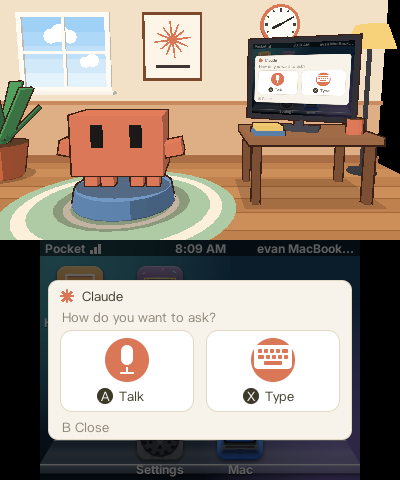
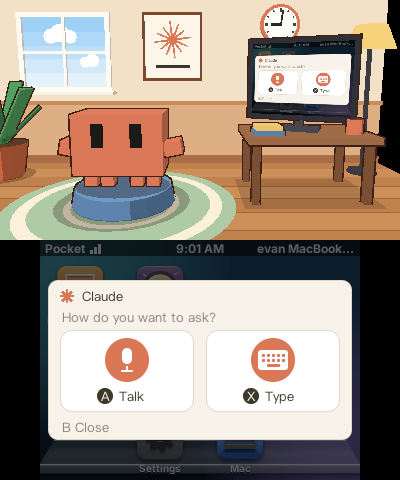
fix(3ds): a smaller gear for Settings and a smaller laptop with no dark bezel for Mac
Both objects take about three quarters of the tile, so the plate frames them.
The laptop's display sits in its aluminium lid. The PocketJS pin moves to
d1866d30: the PocketJS screensaver on the mascot's monitor and the Talk and
Type glyphs with a margin in their discs.

diff --git a/shells/3ds/home/art/icons/icons.py b/shells/3ds/home/art/icons/icons.py
@@ -307,27 +307,26 @@ def gear_outline(teeth, tip, root, steps=12, land=0.42):
 
 def settings():
     # One bold gear on brushed steel: eight wide teeth, a bright hub and a
-    # dark axle. At 46 and 24 px every part is a few pixels wide, so there
-    # are no windows in the web and no recess around it.
+    # dark axle, at about three quarters of the tile so the plate frames it.
+    # At 46 and 24 px every part is a few pixels wide.
     plate(brushed_radial("Brushed steel", "e2e5e9", "a4abb4"))
     gun = principled("Gunmetal", "565e69", 0.32, 0.85)
     steel = principled("Polished steel", "eef1f4", 0.14, 1.0)
-    prism("Gear", gear_outline(8, 0.84, 0.62, land=0.46), 0.0, 0.16, gun, 0.03, holes=[list(reversed(circle(0.30)))])
-    prism("Hub ring", circle(0.30), 0.0, 0.20, steel, 0.035, holes=[list(reversed(circle(0.14)))])
-    prism("Axle", circle(0.14), 0.0, 0.12, principled("Axle", "24282d", 0.3, 0.9), 0.02)
+    prism("Gear", gear_outline(8, 0.62, 0.46, land=0.46), 0.0, 0.14, gun, 0.025, holes=[list(reversed(circle(0.22)))])
+    prism("Hub ring", circle(0.22), 0.0, 0.18, steel, 0.03, holes=[list(reversed(circle(0.10)))])
+    prism("Axle", circle(0.10), 0.0, 0.10, principled("Axle", "24282d", 0.3, 0.9), 0.015)
 
 
 def mac():
-    # A laptop that fills the tile: an aluminium lid, a black bezel, a bright
-    # display, and the deck below seen at a steep angle. No keys or notch.
+    # A laptop at about three quarters of the tile: an aluminium lid whose
+    # own metal frames a bright display (no dark bezel), a slim hinge and
+    # the deck below seen at a steep angle. No keys or notch.
     plate(gradient("Sky lacquer", "7cc8ff", "1653c4", 0.28, coat=0.6))
-    alu = principled("Aluminium", "d3d8de", 0.28, 1.0)
-    dark = principled("Bezel glass", "0b0d10", 0.06, 0.0, 1.0, 0.02)
-    prism("Lid", rounded_rect(1.62, 1.12, 0.08, 0, 0.15), 0.16, 0.05, alu, 0.02)
-    prism("Bezel", rounded_rect(1.54, 1.04, 0.06, 0, 0.15), 0.21, 0.012, dark, 0.006)
-    prism("Display", rounded_rect(1.32, 0.84, 0.012, 0, 0.16), 0.223, 0.004, emissive_gradient("Desktop", "3f9cf5", "0b2f8f", 0.7, -0.26, 0.58), 0)
-    prism("Hinge", rounded_rect(1.58, 0.05, 0.02, 0, -0.43), 0.15, 0.04, principled("Hinge", "2a2e33", 0.35, 0.8), 0.01)
-    prism("Deck", [(-0.80, -0.45), (0.80, -0.45), (0.95, -0.68), (-0.95, -0.68)], 0.12, 0.07, alu, 0.025)
+    alu = principled("Aluminium", "dfe3e8", 0.28, 1.0)
+    prism("Lid", rounded_rect(1.24, 0.86, 0.07, 0, 0.14), 0.16, 0.05, alu, 0.018)
+    prism("Display", rounded_rect(1.08, 0.70, 0.02, 0, 0.15), 0.212, 0.004, emissive_gradient("Desktop", "4aa6f7", "1442a8", 0.75, -0.2, 0.5), 0)
+    prism("Hinge", rounded_rect(1.20, 0.035, 0.015, 0, -0.30), 0.15, 0.035, principled("Hinge", "8a9099", 0.35, 0.8), 0.008)
+    prism("Deck", [(-0.62, -0.32), (0.62, -0.32), (0.74, -0.50), (-0.74, -0.50)], 0.12, 0.06, alu, 0.02)
 
 
 def hn():
